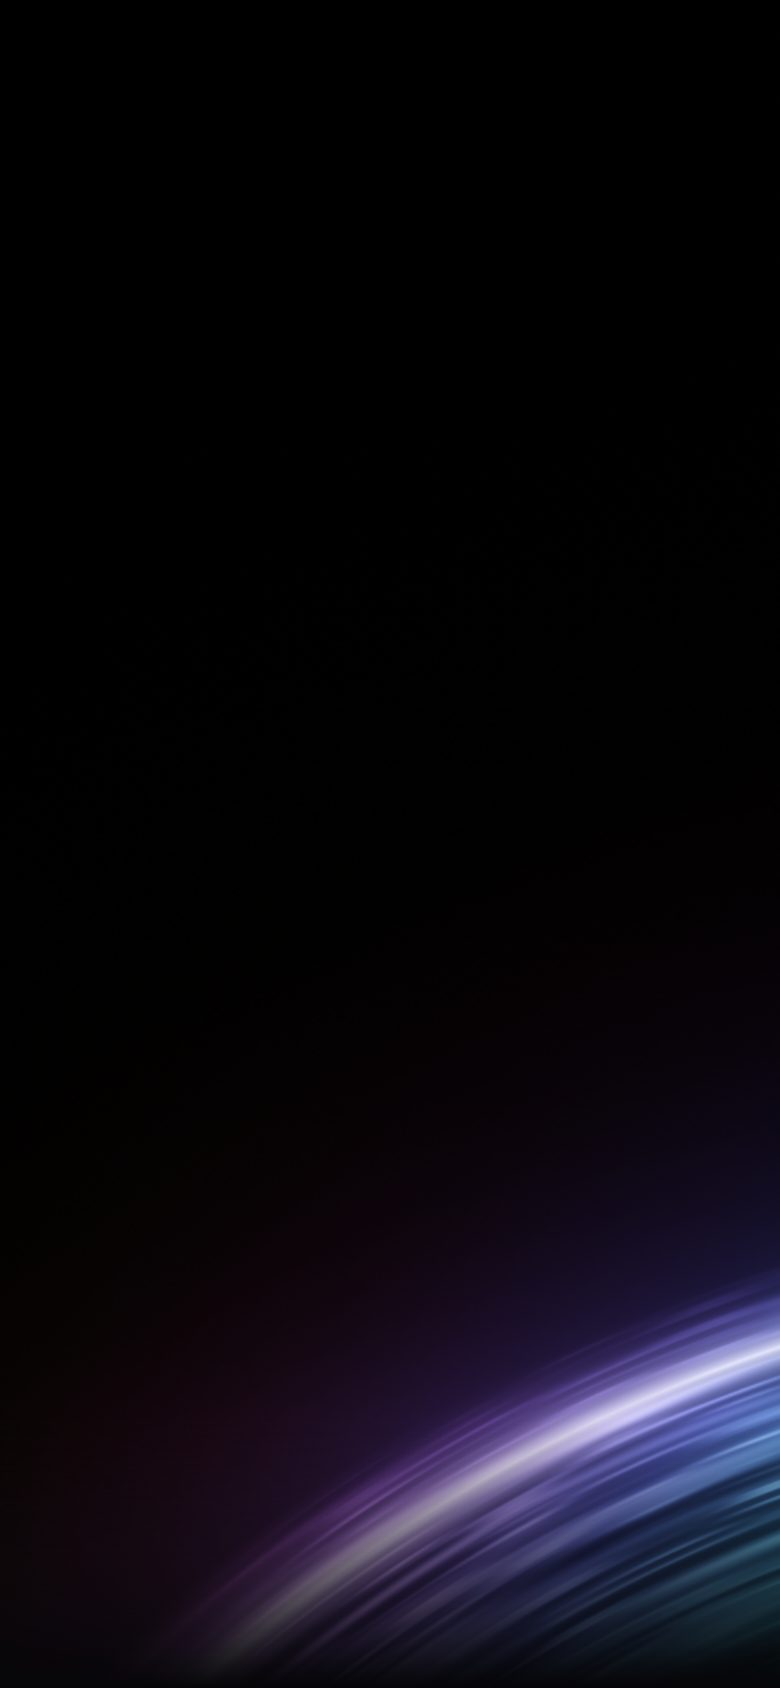
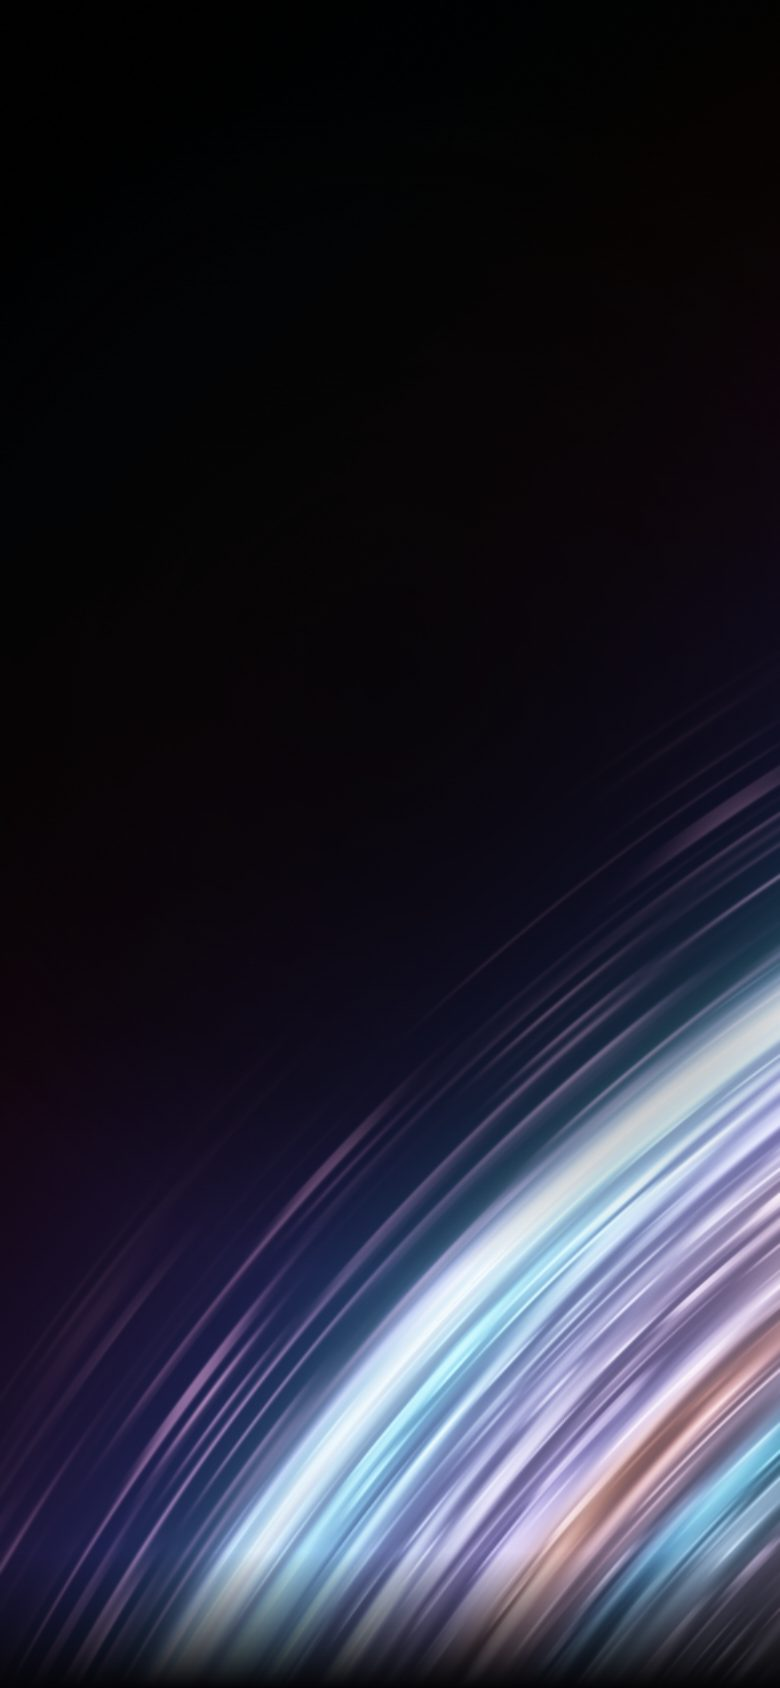
feat: full-screen interactive 3D horizon hero, static on scroll

diff --git a/src/components/sections/Hero.tsx b/src/components/sections/Hero.tsx
@@ -1,8 +1,7 @@
 'use client';
 
 import dynamic from 'next/dynamic';
-import { useRef } from 'react';
-import { motion, useReducedMotion, useScroll, useTransform } from 'motion/react';
+import { motion, useReducedMotion } from 'motion/react';
 import { useLocale } from '@/components/providers/LocaleProvider';
 import { LinkButton } from '@/components/ui/Button';
 import { useWebGL } from '@/lib/capabilities';
@@ -17,7 +16,7 @@ function Headline({ lines, reduce }: { lines: string[]; reduce: boolean }) {
   return (
     <>
       {lines.map((line, li) => (
-        <span key={line} className={li === 1 ? 'block text-[#a3a3b0]' : 'block'}>
+        <span key={line} className={li === 1 ? 'block text-[#b3b3bf]' : 'block'}>
           {line.split(' ').map((word, wi, words) => {
             const delay = 0.45 + li * 0.14 + index++ * 0.045;
             return (
@@ -46,22 +45,14 @@ export function Hero() {
   const { locale, dict } = useLocale();
   const reduce = useReducedMotion() ?? false;
   const webgl = useWebGL();
-  const section = useRef<HTMLElement>(null);
   const rtl = locale === 'ar';
-
-  // Scroll: the content lifts away and dissolves while the horizon sinks (handled in the shader).
-  const { scrollYProgress } = useScroll({ target: section, offset: ['start start', 'end start'] });
-  const contentY = useTransform(scrollYProgress, [0, 1], ['0%', reduce ? '0%' : '-30%']);
-  const contentOpacity = useTransform(scrollYProgress, [0.05, 0.6], [1, reduce ? 1 : 0]);
-  const hintOpacity = useTransform(scrollYProgress, [0, 0.2], [1, reduce ? 1 : 0]);
-  const sceneOpacity = useTransform(scrollYProgress, [0.35, 1], [1, reduce ? 1 : 0.3]);
 
   const fade = (delay: number) => ({ initial: reduce ? false : { opacity: 0, y: 14 }, animate: { opacity: 1, y: 0 }, transition: { duration: 1.2, ease: EASE, delay } });
 
   return (
-    <section ref={section} aria-labelledby="hero-title" className="relative isolate flex min-h-[100svh] flex-col overflow-hidden bg-ink">
-      {/* ── Backdrop: a glowing horizon of spectral light ─────── */}
-      <motion.div aria-hidden="true" style={{ opacity: sceneOpacity }} className="absolute inset-0 -z-10">
+    <section aria-labelledby="hero-title" className="relative isolate flex min-h-[100svh] flex-col overflow-hidden bg-ink">
+      {/* ── Backdrop: a vast horizon of spectral light (hero only) ── */}
+      <div aria-hidden="true" className="absolute inset-0 -z-10">
         {webgl === true && <ArcScene mirror={rtl} reduced={reduce} />}
         {webgl === false && (
           // eslint-disable-next-line @next/next/no-img-element
@@ -71,41 +62,34 @@ export function Hero() {
           // eslint-disable-next-line @next/next/no-img-element
           <img src="/hero/poster-mobile.jpg" alt="" className="absolute inset-0 size-full object-cover rtl:-scale-x-100 md:hidden" />
         )}
-      </motion.div>
-      <div aria-hidden="true" className="pointer-events-none absolute inset-x-0 bottom-0 -z-10 h-[16%] bg-[linear-gradient(to_top,var(--color-ink),transparent)]" />
+      </div>
+      {/* Soft dark pool behind the centred copy so the light never fights the text. */}
+      <div aria-hidden="true" className="pointer-events-none absolute inset-0 -z-10 bg-[radial-gradient(42%_40%_at_50%_42%,rgba(5,5,7,0.8),rgba(5,5,7,0.45)_55%,transparent_82%)] max-md:bg-[radial-gradient(85%_42%_at_50%_40%,rgba(5,5,7,0.78),rgba(5,5,7,0.4)_60%,transparent_85%)] md:rtl:bg-[radial-gradient(46%_46%_at_50%_48%,rgba(5,5,7,0.85),rgba(5,5,7,0.5)_55%,transparent_82%)]" />
+      <div aria-hidden="true" className="pointer-events-none absolute inset-x-0 bottom-0 -z-10 h-[8%] bg-[linear-gradient(to_top,var(--color-ink),transparent)]" />
       <div aria-hidden="true" className="hero-grain pointer-events-none absolute -inset-[20%] -z-10" />
 
       {/* ── Content ──────────────────────────────────────────── */}
-      <div className="container-x flex flex-1 flex-col pb-8 pt-[calc(var(--nav)+clamp(2.5rem,9vh,6.5rem))]">
-        <motion.div style={{ y: contentY, opacity: contentOpacity }}>
-          <motion.p {...fade(0.2)} className="eyebrow inline-flex items-center gap-3">
-            <span aria-hidden="true" className="bg-spectrum h-px w-8" />
-            {dict.hero.kicker}
-          </motion.p>
+      <div className="container-x flex flex-1 flex-col items-center pb-16 pt-[calc(var(--nav)+clamp(2rem,8vh,6rem))] text-center">
+        <motion.p {...fade(0.2)} className="inline-flex items-center gap-2.5 rounded-pill border border-line bg-ink/50 px-4 py-1.5 text-[0.72rem] uppercase tracking-[0.14em] text-paper/80 backdrop-blur-sm rtl:text-xs rtl:normal-case rtl:tracking-normal">
+          <span aria-hidden="true" className="bg-spectrum size-1.5 rounded-full" />
+          {dict.hero.kicker}
+        </motion.p>
 
-          <h1 id="hero-title" className="display-xl mt-6 max-w-[17ch] !text-[clamp(2.7rem,0.6rem+5.2vw,7rem)] rtl:max-w-[16ch] rtl:!leading-[1.3]">
-            <Headline lines={[dict.hero.line1, dict.hero.line2]} reduce={reduce} />
-          </h1>
+        <h1 id="hero-title" className="display-xl mt-7 max-w-[16ch] !text-[clamp(2.6rem,0.6rem+5vw,6.75rem)] rtl:max-w-[22ch] rtl:!text-[clamp(2.3rem,0.6rem+4.2vw,5.5rem)] rtl:!leading-[1.3]">
+          <Headline lines={[dict.hero.line1, dict.hero.line2]} reduce={reduce} />
+        </h1>
 
-          <motion.p {...fade(1)} className="mt-7 max-w-[38ch] text-lg leading-relaxed text-[#a9a9b5] sm:text-xl">
-            {dict.hero.text}
-          </motion.p>
+        <motion.p {...fade(1)} className="mt-6 max-w-[40ch] text-lg leading-relaxed text-[#b0b0bc] sm:text-xl">
+          {dict.hero.text}
+        </motion.p>
 
-          <motion.div {...fade(1.15)} className="mt-9 flex flex-wrap gap-3">
-            <LinkButton href={`${href(locale)}#work`} arrow>
-              {dict.hero.explore}
-            </LinkButton>
-            <LinkButton href={`${href(locale)}#contact`} variant="outline" className="bg-ink/40 backdrop-blur-sm">
-              {dict.hero.start}
-            </LinkButton>
-          </motion.div>
-        </motion.div>
-
-        <motion.div {...fade(1.5)} style={{ opacity: hintOpacity }} aria-hidden="true" className="mt-auto hidden items-center gap-3 pt-10 text-xs text-faint md:flex">
-          <span className="relative h-10 w-px overflow-hidden bg-line">
-            <motion.span className="absolute inset-x-0 top-0 h-4 bg-accent" animate={reduce ? undefined : { y: ['-100%', '260%'] }} transition={{ duration: 2.4, repeat: Infinity, ease: [0.65, 0, 0.35, 1] }} />
-          </span>
-          {dict.hero.scroll}
+        <motion.div {...fade(1.15)} className="mt-9 flex flex-wrap justify-center gap-3">
+          <LinkButton href={`${href(locale)}#work`} arrow>
+            {dict.hero.explore}
+          </LinkButton>
+          <LinkButton href={`${href(locale)}#contact`} variant="outline" className="bg-ink/40 backdrop-blur-sm">
+            {dict.hero.start}
+          </LinkButton>
         </motion.div>
       </div>
     </section>

diff --git a/src/components/three/hero/arcShader.ts b/src/components/three/hero/arcShader.ts
@@ -1,10 +1,12 @@
 /**
  * Hero "horizon" shader.
  *
- * A single full-screen pass draws the rim of a vast dark sphere sitting low in
- * the frame. Light streams along the rim as fine concentric streaks, coloured by
- * a cool-to-warm spectrum (cyan → blue → violet → magenta → orange), with a
- * white-hot edge, a soft atmospheric halo and a gentle glow inside the body.
+ * One full-screen pass renders the lit edge of a vast sphere that fills the
+ * lower part of the frame. The surface is treated as real 3D: each pixel gets a
+ * sphere normal which is rotated over time and by the pointer, so the streams
+ * of light wrap around the curvature and shift in depth instead of sliding flat.
+ * Colour cycles continuously through a looping cyan → blue → violet → magenta →
+ * orange spectrum, and a soft hotspot of light follows the cursor.
  */
 
 export const arcVertex = /* glsl */ `
@@ -18,7 +20,6 @@ void main() {
 export const arcFragment = /* glsl */ `
 uniform float uTime;
 uniform float uReveal;
-uniform float uScroll;
 uniform float uMirror;
 uniform vec2 uRes;
 uniform vec2 uPointer;
@@ -37,65 +38,82 @@ float noise(vec2 p) {
   return mix(mix(hash(i), hash(i + vec2(1.0, 0.0)), u.x), mix(hash(i + vec2(0.0, 1.0)), hash(i + vec2(1.0, 1.0)), u.x), u.y);
 }
 
+// Looping spectrum so colour can cycle forever without a seam.
 vec3 spectrum(float t) {
   vec3 c1 = vec3(0.24, 0.78, 1.00); // cyan
   vec3 c2 = vec3(0.33, 0.38, 1.00); // blue
   vec3 c3 = vec3(0.64, 0.34, 1.00); // violet
   vec3 c4 = vec3(1.00, 0.30, 0.66); // magenta
   vec3 c5 = vec3(1.00, 0.52, 0.30); // orange
-  t = clamp(t, 0.0, 1.0) * 4.0;
+  t = fract(t) * 5.0;
   if (t < 1.0) return mix(c1, c2, t);
   if (t < 2.0) return mix(c2, c3, t - 1.0);
   if (t < 3.0) return mix(c3, c4, t - 2.0);
-  return mix(c4, c5, t - 3.0);
+  if (t < 4.0) return mix(c4, c5, t - 3.0);
+  return mix(c5, c1, t - 4.0);
 }
+
+mat3 rotY(float a) { float s = sin(a), c = cos(a); return mat3(c, 0.0, -s, 0.0, 1.0, 0.0, s, 0.0, c); }
+mat3 rotX(float a) { float s = sin(a), c = cos(a); return mat3(1.0, 0.0, 0.0, 0.0, c, s, 0.0, -s, c); }
 
 void main() {
   float aspect = uRes.x / max(uRes.y, 1.0);
   vec2 p = (vUv - 0.5) * vec2(aspect, 1.0);
   if (uMirror > 0.5) p.x = -p.x;
 
-  // Sphere placement: low and to the side on wide screens, tucked into the corner on tall ones.
+  // A vast sphere low in the frame: its lit edge sweeps from the bottom up to the far side.
   bool portrait = aspect < 1.0;
-  vec2 center = portrait ? vec2(0.55, -1.25) : vec2(0.85, -0.95);
-  float R = portrait ? 1.0 : 1.08;
-  center += uPointer * 0.02;
-  center.y -= uScroll * 0.32;
-  center.y += sin(uTime * 0.25) * 0.006;
+  vec2 center = portrait ? vec2(1.0, -1.15) : vec2(1.0, -1.3);
+  float R = portrait ? 1.3 : 1.42;
+  center += uPointer * vec2(0.045, 0.03);
+  R += sin(uTime * 0.3) * 0.008;
 
   vec2 d = p - center;
   float r = length(d);
+  float rim = r - R;
   float ang = atan(d.y, d.x);
-  float rim = r - R; // < 0 inside the sphere
 
-  // Light streaming along the rim.
-  float s1 = pow(noise(vec2(ang * 5.0 - uTime * 0.32, rim * 150.0)), 3.0);
-  float s2 = pow(noise(vec2(ang * 13.0 + uTime * 0.21, rim * 360.0 + 7.0)), 4.0);
-  float s3 = pow(noise(vec2(ang * 2.2 - uTime * 0.12, rim * 60.0 + 3.0)), 2.0);
-  float band = smoothstep(-0.3, -0.015, rim) * smoothstep(0.05, -0.004, rim);
+  // Real sphere normal, rotated by time and pointer — gives the light its depth.
+  float rr = min(r / R, 1.0);
+  float z = sqrt(max(1.0 - rr * rr, 0.0));
+  vec3 n = rotX(uPointer.y * 0.35 + sin(uTime * 0.13) * 0.06) * rotY(uTime * 0.07 + uPointer.x * 0.45) * vec3(d / R, z);
+  float lon = atan(n.x, n.z);
+  float lat = asin(clamp(n.y, -1.0, 1.0));
 
-  float core  = exp(-abs(rim) * 150.0);
-  float halo  = exp(-max(rim, 0.0) * 12.0) * step(0.0, rim);
-  float inner = exp(rim * 5.0) * step(rim, 0.0);
+  // Streams of light wrapping the curvature.
+  float warp = noise(vec2(lon * 2.2, lat * 2.2) + uTime * 0.06);
+  float s1 = pow(noise(vec2(ang * 6.0 + warp * 3.0 - uTime * 0.5, rim * 140.0 + warp * 6.0)), 3.0);
+  float s2 = pow(noise(vec2(ang * 16.0 + warp * 5.0 + uTime * 0.32, rim * 420.0 + lat * 8.0)), 5.0);
+  float s3 = noise(vec2(ang * 2.5 - uTime * 0.22, rim * 40.0 + lat * 3.0));
 
-  // Colour drifts along the arc and across its depth.
-  float t = (ang - 1.45) / 1.35 + rim * 1.8 + sin(uTime * 0.09 + ang * 2.0) * 0.08;
+  float band   = smoothstep(-0.55, -0.01, rim) * smoothstep(0.03, -0.004, rim);
+  float core   = exp(-abs(rim) * 120.0);
+  float halo   = exp(-max(rim, 0.0) * 7.0) * step(0.0, rim);
+  float inner  = exp(rim * 3.5) * step(rim, 0.0);
+  float trails = pow(noise(vec2(ang * 9.0 - uTime * 0.6, rim * 260.0 + 11.0)), 6.0) * smoothstep(0.2, 0.0, rim) * step(0.0, rim);
+
+  // The cursor pools extra light where it hovers.
+  vec2 pp = uPointer * vec2(aspect * 0.5, 0.5);
+  float hot = exp(-pow(length(p - pp) * 2.4, 2.0));
+
+  // Colour varies along the arc and through its depth, and keeps cycling.
+  float t = (ang - 1.2) * 0.45 + rim * 1.5 + lat * 0.25 + uTime * 0.035;
   vec3 col = spectrum(t);
-  vec3 hot = mix(col, vec3(1.0), 0.65);
+  vec3 col2 = spectrum(t + 0.35);
 
   vec3 c = vec3(0.0);
-  c += col * band * (0.22 + 1.5 * s1 + 1.3 * s2 + 0.5 * s3);
-  c += hot * core * 1.5;
-  c += col * halo * 0.32;
-  c += col * inner * 0.1;
+  c += mix(col, col2, s3) * band * (0.35 + 1.7 * s1 + 1.6 * s2) * (1.0 + hot * 1.4);
+  c += mix(col, vec3(1.0), 0.7) * core * (1.3 + hot);
+  c += col * halo * 0.45;
+  c += col2 * inner * 0.22;
+  c += mix(col2, vec3(1.0), 0.4) * trails * 1.2;
 
-  // Reveal: the light races along the rim from the right edge on load.
-  float front = mix(0.9, 3.7, uReveal);
-  c *= smoothstep(ang - 0.3, ang, front);
-  c *= 1.0 - uScroll * 0.45;
+  // Intro: the light races along the edge.
+  float front = mix(0.6, 3.8, uReveal);
+  c *= smoothstep(ang - 0.35, ang, front);
 
-  c = 1.0 - exp(-c * 1.3);
-  c += (hash(gl_FragCoord.xy) - 0.5) / 255.0; // dither against banding
+  c = 1.0 - exp(-c * 1.35);
+  c += (hash(gl_FragCoord.xy) - 0.5) / 255.0;
   gl_FragColor = vec4(c, 1.0);
 }
 `;

diff --git a/src/components/three/hero/ArcScene.tsx b/src/components/three/hero/ArcScene.tsx
@@ -11,12 +11,11 @@ const ease = (x: number) => 1 - Math.pow(1 - Math.min(Math.max(x, 0), 1), 3);
 function Horizon({ mirror, reduced }: { mirror: boolean; reduced: boolean }) {
   const material = useRef<THREE.ShaderMaterial>(null);
   const pointer = useRef({ x: 0, y: 0 });
-  const smooth = useRef({ x: 0, y: 0, scroll: 0 });
+  const smooth = useRef({ x: 0, y: 0 });
   const uniforms = useMemo(
     () => ({
       uTime: { value: reduced ? 14 : 0 },
       uReveal: { value: reduced ? 1 : 0 },
-      uScroll: { value: 0 },
       uMirror: { value: mirror ? 1 : 0 },
       uRes: { value: new THREE.Vector2(1, 1) },
       uPointer: { value: new THREE.Vector2() },
@@ -27,7 +26,6 @@ function Horizon({ mirror, reduced }: { mirror: boolean; reduced: boolean }) {
   useEffect(() => {
     if (reduced) return;
     const onMove = (e: PointerEvent) => {
-      if (e.pointerType !== 'mouse') return;
       pointer.current.x = ((e.clientX / window.innerWidth) * 2 - 1) * (mirror ? -1 : 1);
       pointer.current.y = -((e.clientY / window.innerHeight) * 2 - 1);
     };
@@ -40,15 +38,12 @@ function Horizon({ mirror, reduced }: { mirror: boolean; reduced: boolean }) {
     if (!m) return;
     const s = smooth.current;
     const time = reduced ? 14 : state.clock.elapsedTime;
-    const k = 1 - Math.exp(-delta * 2);
+    const k = 1 - Math.exp(-delta * 3);
     s.x += (pointer.current.x - s.x) * k;
     s.y += (pointer.current.y - s.y) * k;
-    const scroll = Math.min(Math.max(window.scrollY / window.innerHeight, 0), 1);
-    s.scroll += (scroll - s.scroll) * (reduced ? 1 : Math.min(1, delta * 6));
 
     m.uniforms.uTime.value = time;
-    m.uniforms.uReveal.value = reduced ? 1 : ease((time - 0.2) / 2.6);
-    m.uniforms.uScroll.value = s.scroll;
+    m.uniforms.uReveal.value = reduced ? 1 : ease((time - 0.2) / 2.4);
     (m.uniforms.uRes.value as THREE.Vector2).set(state.size.width, state.size.height);
     (m.uniforms.uPointer.value as THREE.Vector2).set(s.x, s.y);
   });
@@ -61,7 +56,7 @@ function Horizon({ mirror, reduced }: { mirror: boolean; reduced: boolean }) {
   );
 }
 
-/** Full-bleed WebGL backdrop for the hero. Pauses when scrolled out of view. */
+/** Full-bleed WebGL backdrop for the hero only. Pauses when the hero is out of view. */
 export default function ArcScene({ mirror, reduced }: { mirror: boolean; reduced: boolean }) {
   const wrap = useRef<HTMLDivElement>(null);
   const [active, setActive] = useState(true);
@@ -77,7 +72,7 @@ export default function ArcScene({ mirror, reduced }: { mirror: boolean; reduced
   }, []);
 
   return (
-    <div ref={wrap} className="absolute inset-0 transition-opacity duration-[1400ms] ease-out" style={{ opacity: ready ? 1 : 0 }}>
+    <div ref={wrap} className="absolute inset-0 transition-opacity duration-[1200ms] ease-out" style={{ opacity: ready ? 1 : 0 }}>
       <Canvas
         dpr={[1, dpr]}
         flat
